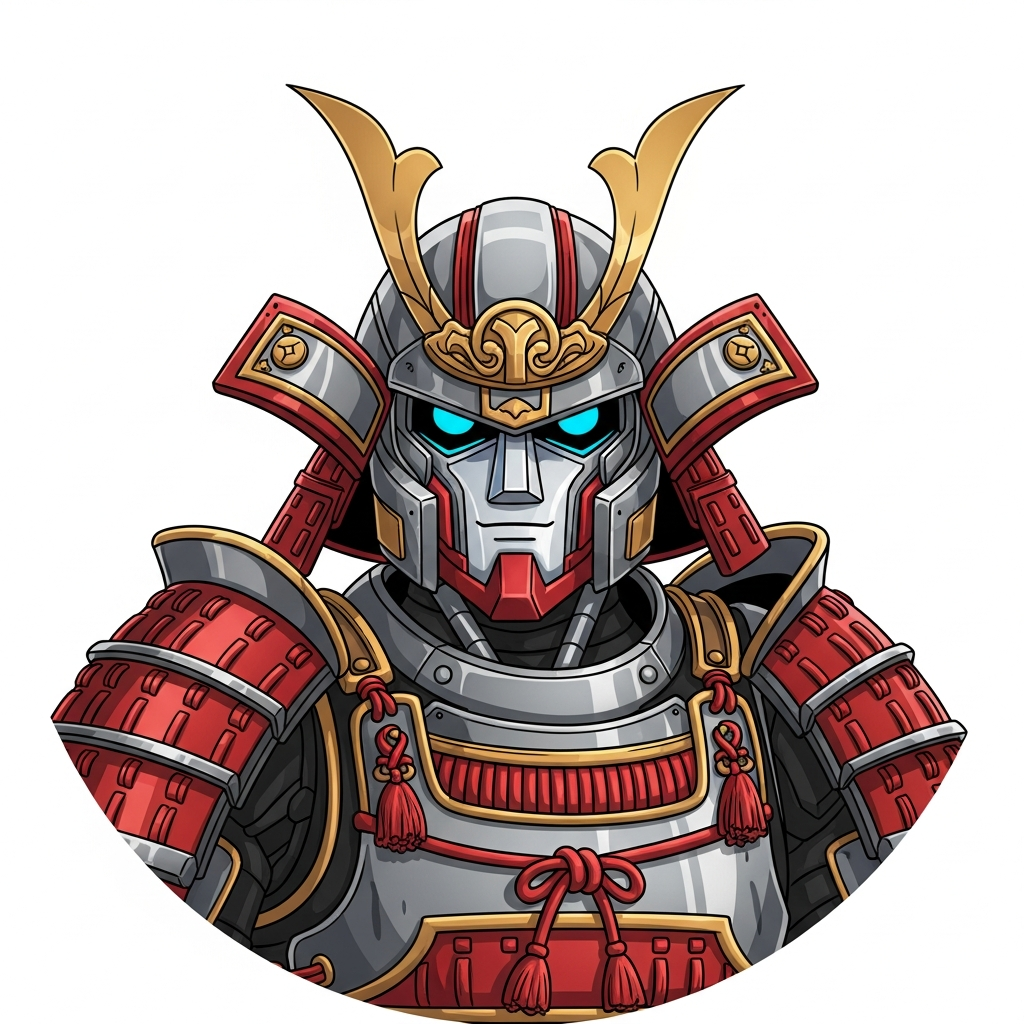
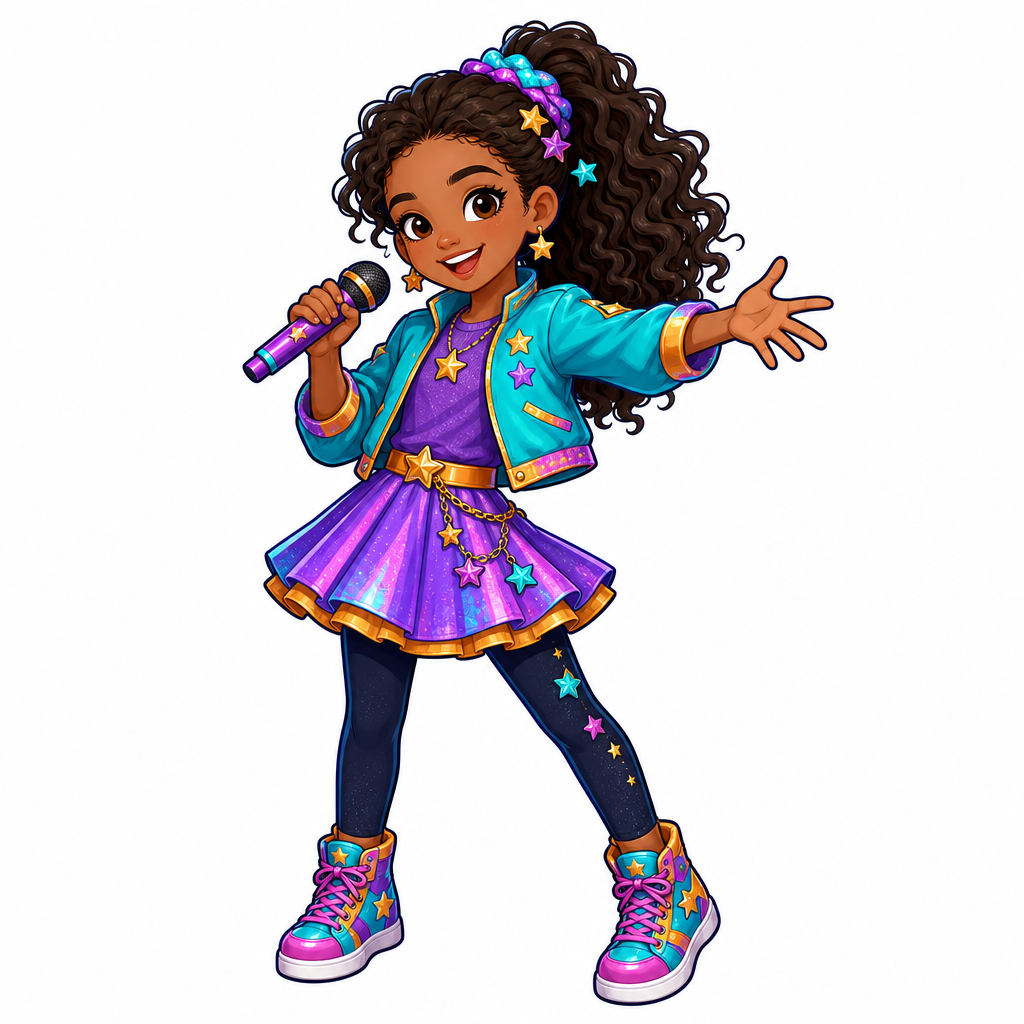
Update steel samurai assets and add neon popstar resources
Replit-Commit-Author: Agent

diff --git a/server/index.ts b/server/index.ts
@@ -373,7 +373,7 @@ async function autoSeedSkinsIfNeeded() {
       { id: "cyber-warrior", name: "Cyber Warrior", description: "Sleek cyber robot with plasma blades and neon lights!", imageUrl: "⚔", pointsRequired: 4620, bonusPoints: 0 },
       { id: "iron-guardian", name: "Iron Guardian", description: "Heavy armored mech designed for defense and protection!", imageUrl: "🛡", pointsRequired: 4680, bonusPoints: 0 },
       { id: "plasma-bot", name: "Plasma Bot", description: "Energy-powered robot with glowing plasma core!", imageUrl: "💫", pointsRequired: 4740, bonusPoints: 0 },
-      { id: "steel-samurai", name: "Steel Samurai", description: "Japanese-inspired mech with katana and honor code!", imageUrl: "⚔", pointsRequired: 4800, bonusPoints: 0 },
+      { id: "steel-samurai", name: "Popstar", description: "A joyful young singer lighting up the stage with music and confidence!", imageUrl: "🎤", pointsRequired: 4800, bonusPoints: 0 },
       { id: "thunder-mech", name: "Thunder Mech", description: "Electric mech channeling lightning through its systems!", imageUrl: "⚡", pointsRequired: 4860, bonusPoints: 15 },
       { id: "neon-droid", name: "Neon Droid", description: "Colorful robot with vibrant LED displays!", imageUrl: "✨", pointsRequired: 4920, bonusPoints: 0 },
       { id: "battle-commander", name: "Battle Commander", description: "Elite mech leader coordinating robot squadrons!", imageUrl: "🎖", pointsRequired: 5000, bonusPoints: 15 },
@@ -452,6 +452,12 @@ async function syncRedesignedGamingSkins() {
       name: "Dance Captain",
       description: "An energetic dance champion leading every beat with confidence and joy!",
       imageUrl: "🕺",
+    },
+    {
+      id: "steel-samurai",
+      name: "Popstar",
+      description: "A joyful young singer lighting up the stage with music and confidence!",
+      imageUrl: "🎤",
     },
   ];
 
@@ -723,7 +729,7 @@ async function forceReseedSkinsIfNeeded() {
       { id: "cyber-warrior", name: "Cyber Warrior", description: "Sleek cyber robot with plasma blades and neon lights!", imageUrl: "⚔", pointsRequired: 4620, bonusPoints: 0 },
       { id: "iron-guardian", name: "Iron Guardian", description: "Heavy armored mech designed for defense and protection!", imageUrl: "🛡", pointsRequired: 4680, bonusPoints: 0 },
       { id: "plasma-bot", name: "Plasma Bot", description: "Energy-powered robot with glowing plasma core!", imageUrl: "💫", pointsRequired: 4740, bonusPoints: 0 },
-      { id: "steel-samurai", name: "Steel Samurai", description: "Japanese-inspired mech with katana and honor code!", imageUrl: "⚔", pointsRequired: 4800, bonusPoints: 0 },
+      { id: "steel-samurai", name: "Popstar", description: "A joyful young singer lighting up the stage with music and confidence!", imageUrl: "🎤", pointsRequired: 4800, bonusPoints: 0 },
       { id: "thunder-mech", name: "Thunder Mech", description: "Electric mech channeling lightning through its systems!", imageUrl: "⚡", pointsRequired: 4860, bonusPoints: 15 },
       { id: "neon-droid", name: "Neon Droid", description: "Colorful robot with vibrant LED displays!", imageUrl: "✨", pointsRequired: 4920, bonusPoints: 0 },
       { id: "battle-commander", name: "Battle Commander", description: "Elite mech leader coordinating robot squadrons!", imageUrl: "🎖", pointsRequired: 5000, bonusPoints: 15 },

diff --git a/client/src/__tests__/skin-assets.test.ts b/client/src/__tests__/skin-assets.test.ts
@@ -17,10 +17,10 @@ describe("skin asset URLs", () => {
     vi.spyOn(Capacitor, "isNativePlatform").mockReturnValue(false);
 
     expect(getSkinImageUrl("junior-champion")).toBe(
-      "/skins/avatars/junior-champion.png?v=2",
+      "/skins/avatars/junior-champion.png?v=3",
     );
     expect(getSkinBackgroundUrl("junior-champion")).toBe(
-      "/skins/backgrounds/junior-champion.png?v=4",
+      "/skins/backgrounds/junior-champion.png?v=5",
     );
   });
 
@@ -28,13 +28,13 @@ describe("skin asset URLs", () => {
     vi.spyOn(Capacitor, "isNativePlatform").mockReturnValue(true);
 
     expect(getSkinImageUrl("junior-champion")).toBe(
-      "/skins/avatars/junior-champion.png?v=2",
+      "/skins/avatars/junior-champion.png?v=3",
     );
     expect(getSkinBackgroundUrl("junior-champion")).toBe(
-      "/skins/backgrounds/junior-champion.png?v=4",
+      "/skins/backgrounds/junior-champion.png?v=5",
     );
     expect(getSkinBackgroundUrl("brave-explorer")).toBe(
-      "https://littlechamps.net/skins/backgrounds/brave-explorer.png?v=4",
+      "https://littlechamps.net/skins/backgrounds/brave-explorer.png?v=5",
     );
   });
 });

diff --git a/client/src/lib/skins.ts b/client/src/lib/skins.ts
@@ -13,10 +13,10 @@ export function getSkinImageUrl(skinId: string): string {
 
 // Bump these versions whenever the corresponding skin assets are updated.
 // Native WebViews and the production CDN cache these files aggressively.
-const AVATAR_VERSION = 2;
+const AVATAR_VERSION = 3;
 
 // Bump this version when background images are updated to bust the immutable cache
-const BACKGROUND_VERSION = 4;
+const BACKGROUND_VERSION = 5;
 
 export function getSkinBackgroundUrl(skinId: string): string {
   const path = `/skins/backgrounds/${skinId}.png?v=${BACKGROUND_VERSION}`;
